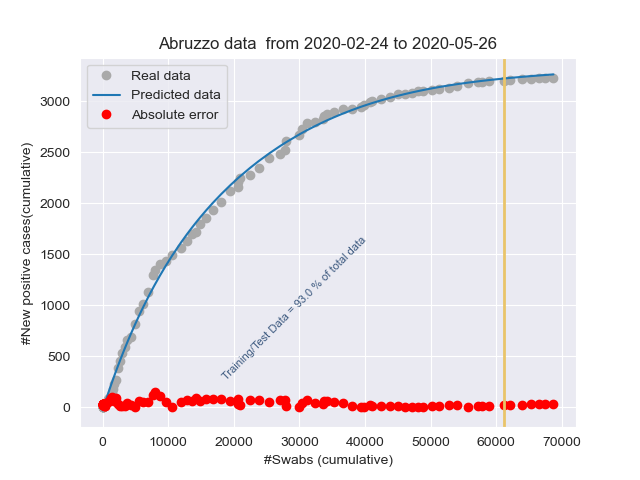
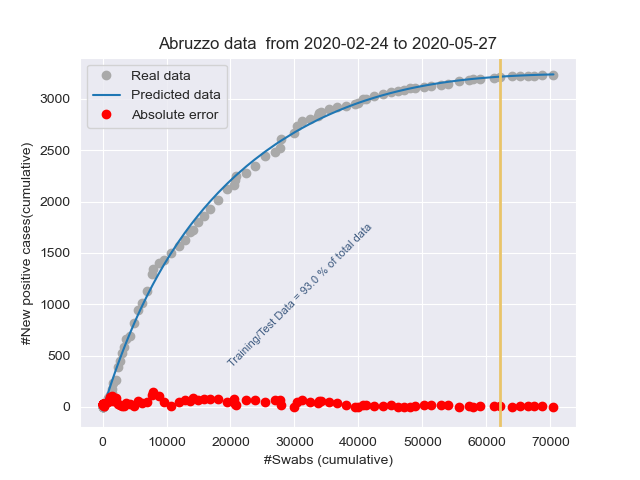
Add files via upload

diff --git a/stat_Italy.html b/stat_Italy.html
@@ -1,1 +1,1 @@
-<!DOCTYPE html><html lang="it"><head><title>Results</title><meta charset="utf-8"><meta name="viewport" content="width=device-width, initial-scale=1"><link rel="stylesheet" href="bootstrap.min.css"><script src="https://ajax.googleapis.com/ajax/libs/jquery/3.4.1/jquery.min.js"></script><script src="https://maxcdn.bootstrapcdn.com/bootstrap/3.4.1/js/bootstrap.min.js"></script></head><body><h3>Day: 2020-05-26</h3><p class="lead my-3">New positive cases: <b>397</b></p><p class="lead my-3">Number of swabs: <b>57674.0</b></p><p class="lead my-3">Number of people admitted to Intensive care: <b>521</b></p><p class="lead my-3">Number of people recovered: <b>2677.0</b></p><p class="lead my-3">Number of dead people: <b>78.0</b></p></body></html>
+<!DOCTYPE html><html lang="it"><head><title>Results</title><meta charset="utf-8"><meta name="viewport" content="width=device-width, initial-scale=1"><link rel="stylesheet" href="bootstrap.min.css"><script src="https://ajax.googleapis.com/ajax/libs/jquery/3.4.1/jquery.min.js"></script><script src="https://maxcdn.bootstrapcdn.com/bootstrap/3.4.1/js/bootstrap.min.js"></script></head><body><h3>Day: 2020-05-27</h3><p class="lead my-3">New positive cases: <b>584</b></p><p class="lead my-3">Number of swabs: <b>67324.0</b></p><p class="lead my-3">Number of people admitted to Intensive care: <b>505</b></p><p class="lead my-3">Number of people recovered: <b>2443.0</b></p><p class="lead my-3">Number of dead people: <b>117.0</b></p></body></html>

diff --git a/stat_Lombardia.html b/stat_Lombardia.html
@@ -1,1 +1,1 @@
-<!DOCTYPE html><html lang="it"><head><title>Results</title><meta charset="utf-8"><meta name="viewport" content="width=device-width, initial-scale=1"><link rel="stylesheet" href="bootstrap.min.css"><script src="https://ajax.googleapis.com/ajax/libs/jquery/3.4.1/jquery.min.js"></script><script src="https://maxcdn.bootstrapcdn.com/bootstrap/3.4.1/js/bootstrap.min.js"></script></head><body><h3>Day: 2020-05-26</h3><p class="lead my-3">New positive cases: <b>159</b></p><p class="lead my-3">Number of swabs: <b>9176.0</b></p><p class="lead my-3">Number of people admitted to Intensive care: <b>183</b></p><p class="lead my-3">Number of people recovered: <b>875.0</b></p><p class="lead my-3">Number of dead people: <b>22.0</b></p></body></html>
+<!DOCTYPE html><html lang="it"><head><title>Results</title><meta charset="utf-8"><meta name="viewport" content="width=device-width, initial-scale=1"><link rel="stylesheet" href="bootstrap.min.css"><script src="https://ajax.googleapis.com/ajax/libs/jquery/3.4.1/jquery.min.js"></script><script src="https://maxcdn.bootstrapcdn.com/bootstrap/3.4.1/js/bootstrap.min.js"></script></head><body><h3>Day: 2020-05-27</h3><p class="lead my-3">New positive cases: <b>384</b></p><p class="lead my-3">Number of swabs: <b>12503.0</b></p><p class="lead my-3">Number of people admitted to Intensive care: <b>175</b></p><p class="lead my-3">Number of people recovered: <b>766.0</b></p><p class="lead my-3">Number of dead people: <b>58.0</b></p></body></html>

diff --git a/stat_Piemonte.html b/stat_Piemonte.html
@@ -1,1 +1,1 @@
-<!DOCTYPE html><html lang="it"><head><title>Results</title><meta charset="utf-8"><meta name="viewport" content="width=device-width, initial-scale=1"><link rel="stylesheet" href="bootstrap.min.css"><script src="https://ajax.googleapis.com/ajax/libs/jquery/3.4.1/jquery.min.js"></script><script src="https://maxcdn.bootstrapcdn.com/bootstrap/3.4.1/js/bootstrap.min.js"></script></head><body><h3>Day: 2020-05-26</h3><p class="lead my-3">New positive cases: <b>86</b></p><p class="lead my-3">Number of swabs: <b>5455.0</b></p><p class="lead my-3">Number of people admitted to Intensive care: <b>70</b></p><p class="lead my-3">Number of people recovered: <b>627.0</b></p><p class="lead my-3">Number of dead people: <b>14.0</b></p></body></html>
+<!DOCTYPE html><html lang="it"><head><title>Results</title><meta charset="utf-8"><meta name="viewport" content="width=device-width, initial-scale=1"><link rel="stylesheet" href="bootstrap.min.css"><script src="https://ajax.googleapis.com/ajax/libs/jquery/3.4.1/jquery.min.js"></script><script src="https://maxcdn.bootstrapcdn.com/bootstrap/3.4.1/js/bootstrap.min.js"></script></head><body><h3>Day: 2020-05-27</h3><p class="lead my-3">New positive cases: <b>73</b></p><p class="lead my-3">Number of swabs: <b>5098.0</b></p><p class="lead my-3">Number of people admitted to Intensive care: <b>68</b></p><p class="lead my-3">Number of people recovered: <b>534.0</b></p><p class="lead my-3">Number of dead people: <b>16.0</b></p></body></html>

diff --git a/stat_Emilia-Romagna.html b/stat_Emilia-Romagna.html
@@ -1,1 +1,1 @@
-<!DOCTYPE html><html lang="it"><head><title>Results</title><meta charset="utf-8"><meta name="viewport" content="width=device-width, initial-scale=1"><link rel="stylesheet" href="bootstrap.min.css"><script src="https://ajax.googleapis.com/ajax/libs/jquery/3.4.1/jquery.min.js"></script><script src="https://maxcdn.bootstrapcdn.com/bootstrap/3.4.1/js/bootstrap.min.js"></script></head><body><h3>Day: 2020-05-26</h3><p class="lead my-3">New positive cases: <b>24</b></p><p class="lead my-3">Number of swabs: <b>3673.0</b></p><p class="lead my-3">Number of people admitted to Intensive care: <b>80</b></p><p class="lead my-3">Number of people recovered: <b>229.0</b></p><p class="lead my-3">Number of dead people: <b>8.0</b></p></body></html>
+<!DOCTYPE html><html lang="it"><head><title>Results</title><meta charset="utf-8"><meta name="viewport" content="width=device-width, initial-scale=1"><link rel="stylesheet" href="bootstrap.min.css"><script src="https://ajax.googleapis.com/ajax/libs/jquery/3.4.1/jquery.min.js"></script><script src="https://maxcdn.bootstrapcdn.com/bootstrap/3.4.1/js/bootstrap.min.js"></script></head><body><h3>Day: 2020-05-27</h3><p class="lead my-3">New positive cases: <b>16</b></p><p class="lead my-3">Number of swabs: <b>3714.0</b></p><p class="lead my-3">Number of people admitted to Intensive care: <b>78</b></p><p class="lead my-3">Number of people recovered: <b>157.0</b></p><p class="lead my-3">Number of dead people: <b>7.0</b></p></body></html>

diff --git a/stat_Liguria.html b/stat_Liguria.html
@@ -1,1 +1,1 @@
-<!DOCTYPE html><html lang="it"><head><title>Results</title><meta charset="utf-8"><meta name="viewport" content="width=device-width, initial-scale=1"><link rel="stylesheet" href="bootstrap.min.css"><script src="https://ajax.googleapis.com/ajax/libs/jquery/3.4.1/jquery.min.js"></script><script src="https://maxcdn.bootstrapcdn.com/bootstrap/3.4.1/js/bootstrap.min.js"></script></head><body><h3>Day: 2020-05-26</h3><p class="lead my-3">New positive cases: <b>53</b></p><p class="lead my-3">Number of swabs: <b>2206.0</b></p><p class="lead my-3">Number of people admitted to Intensive care: <b>19</b></p><p class="lead my-3">Number of people recovered: <b>165.0</b></p><p class="lead my-3">Number of dead people: <b>6.0</b></p></body></html>
+<!DOCTYPE html><html lang="it"><head><title>Results</title><meta charset="utf-8"><meta name="viewport" content="width=device-width, initial-scale=1"><link rel="stylesheet" href="bootstrap.min.css"><script src="https://ajax.googleapis.com/ajax/libs/jquery/3.4.1/jquery.min.js"></script><script src="https://maxcdn.bootstrapcdn.com/bootstrap/3.4.1/js/bootstrap.min.js"></script></head><body><h3>Day: 2020-05-27</h3><p class="lead my-3">New positive cases: <b>39</b></p><p class="lead my-3">Number of swabs: <b>2157.0</b></p><p class="lead my-3">Number of people admitted to Intensive care: <b>14</b></p><p class="lead my-3">Number of people recovered: <b>201.0</b></p><p class="lead my-3">Number of dead people: <b>7.0</b></p></body></html>

diff --git a/stat_Veneto.html b/stat_Veneto.html
@@ -1,1 +1,1 @@
-<!DOCTYPE html><html lang="it"><head><title>Results</title><meta charset="utf-8"><meta name="viewport" content="width=device-width, initial-scale=1"><link rel="stylesheet" href="bootstrap.min.css"><script src="https://ajax.googleapis.com/ajax/libs/jquery/3.4.1/jquery.min.js"></script><script src="https://maxcdn.bootstrapcdn.com/bootstrap/3.4.1/js/bootstrap.min.js"></script></head><body><h3>Day: 2020-05-26</h3><p class="lead my-3">New positive cases: <b>8</b></p><p class="lead my-3">Number of swabs: <b>12073.0</b></p><p class="lead my-3">Number of people admitted to Intensive care: <b>11</b></p><p class="lead my-3">Number of people recovered: <b>147.0</b></p><p class="lead my-3">Number of dead people: <b>8.0</b></p></body></html>
+<!DOCTYPE html><html lang="it"><head><title>Results</title><meta charset="utf-8"><meta name="viewport" content="width=device-width, initial-scale=1"><link rel="stylesheet" href="bootstrap.min.css"><script src="https://ajax.googleapis.com/ajax/libs/jquery/3.4.1/jquery.min.js"></script><script src="https://maxcdn.bootstrapcdn.com/bootstrap/3.4.1/js/bootstrap.min.js"></script></head><body><h3>Day: 2020-05-27</h3><p class="lead my-3">New positive cases: <b>8</b></p><p class="lead my-3">Number of swabs: <b>14439.0</b></p><p class="lead my-3">Number of people admitted to Intensive care: <b>9</b></p><p class="lead my-3">Number of people recovered: <b>143.0</b></p><p class="lead my-3">Number of dead people: <b>9.0</b></p></body></html>

diff --git a/stat_Lazio.html b/stat_Lazio.html
@@ -1,1 +1,1 @@
-<!DOCTYPE html><html lang="it"><head><title>Results</title><meta charset="utf-8"><meta name="viewport" content="width=device-width, initial-scale=1"><link rel="stylesheet" href="bootstrap.min.css"><script src="https://ajax.googleapis.com/ajax/libs/jquery/3.4.1/jquery.min.js"></script><script src="https://maxcdn.bootstrapcdn.com/bootstrap/3.4.1/js/bootstrap.min.js"></script></head><body><h3>Day: 2020-05-26</h3><p class="lead my-3">New positive cases: <b>18</b></p><p class="lead my-3">Number of swabs: <b>3127.0</b></p><p class="lead my-3">Number of people admitted to Intensive care: <b>59</b></p><p class="lead my-3">Number of people recovered: <b>29.0</b></p><p class="lead my-3">Number of dead people: <b>5.0</b></p></body></html>
+<!DOCTYPE html><html lang="it"><head><title>Results</title><meta charset="utf-8"><meta name="viewport" content="width=device-width, initial-scale=1"><link rel="stylesheet" href="bootstrap.min.css"><script src="https://ajax.googleapis.com/ajax/libs/jquery/3.4.1/jquery.min.js"></script><script src="https://maxcdn.bootstrapcdn.com/bootstrap/3.4.1/js/bootstrap.min.js"></script></head><body><h3>Day: 2020-05-27</h3><p class="lead my-3">New positive cases: <b>11</b></p><p class="lead my-3">Number of swabs: <b>3320.0</b></p><p class="lead my-3">Number of people admitted to Intensive care: <b>65</b></p><p class="lead my-3">Number of people recovered: <b>53.0</b></p><p class="lead my-3">Number of dead people: <b>8.0</b></p></body></html>

diff --git a/stat_Puglia.html b/stat_Puglia.html
@@ -1,1 +1,1 @@
-<!DOCTYPE html><html lang="it"><head><title>Results</title><meta charset="utf-8"><meta name="viewport" content="width=device-width, initial-scale=1"><link rel="stylesheet" href="bootstrap.min.css"><script src="https://ajax.googleapis.com/ajax/libs/jquery/3.4.1/jquery.min.js"></script><script src="https://maxcdn.bootstrapcdn.com/bootstrap/3.4.1/js/bootstrap.min.js"></script></head><body><h3>Day: 2020-05-26</h3><p class="lead my-3">New positive cases: <b>2</b></p><p class="lead my-3">Number of swabs: <b>2203.0</b></p><p class="lead my-3">Number of people admitted to Intensive care: <b>17</b></p><p class="lead my-3">Number of people recovered: <b>138.0</b></p><p class="lead my-3">Number of dead people: <b>3.0</b></p></body></html>
+<!DOCTYPE html><html lang="it"><head><title>Results</title><meta charset="utf-8"><meta name="viewport" content="width=device-width, initial-scale=1"><link rel="stylesheet" href="bootstrap.min.css"><script src="https://ajax.googleapis.com/ajax/libs/jquery/3.4.1/jquery.min.js"></script><script src="https://maxcdn.bootstrapcdn.com/bootstrap/3.4.1/js/bootstrap.min.js"></script></head><body><h3>Day: 2020-05-27</h3><p class="lead my-3">New positive cases: <b>10</b></p><p class="lead my-3">Number of swabs: <b>2626.0</b></p><p class="lead my-3">Number of people admitted to Intensive care: <b>17</b></p><p class="lead my-3">Number of people recovered: <b>35.0</b></p><p class="lead my-3">Number of dead people: <b>1.0</b></p></body></html>

diff --git a/stat_Toscana.html b/stat_Toscana.html
@@ -1,1 +1,1 @@
-<!DOCTYPE html><html lang="it"><head><title>Results</title><meta charset="utf-8"><meta name="viewport" content="width=device-width, initial-scale=1"><link rel="stylesheet" href="bootstrap.min.css"><script src="https://ajax.googleapis.com/ajax/libs/jquery/3.4.1/jquery.min.js"></script><script src="https://maxcdn.bootstrapcdn.com/bootstrap/3.4.1/js/bootstrap.min.js"></script></head><body><h3>Day: 2020-05-26</h3><p class="lead my-3">New positive cases: <b>3</b></p><p class="lead my-3">Number of swabs: <b>4523.0</b></p><p class="lead my-3">Number of people admitted to Intensive care: <b>34</b></p><p class="lead my-3">Number of people recovered: <b>111.0</b></p><p class="lead my-3">Number of dead people: <b>6.0</b></p></body></html>
+<!DOCTYPE html><html lang="it"><head><title>Results</title><meta charset="utf-8"><meta name="viewport" content="width=device-width, initial-scale=1"><link rel="stylesheet" href="bootstrap.min.css"><script src="https://ajax.googleapis.com/ajax/libs/jquery/3.4.1/jquery.min.js"></script><script src="https://maxcdn.bootstrapcdn.com/bootstrap/3.4.1/js/bootstrap.min.js"></script></head><body><h3>Day: 2020-05-27</h3><p class="lead my-3">New positive cases: <b>12</b></p><p class="lead my-3">Number of swabs: <b>3871.0</b></p><p class="lead my-3">Number of people admitted to Intensive care: <b>31</b></p><p class="lead my-3">Number of people recovered: <b>68.0</b></p><p class="lead my-3">Number of dead people: <b>6.0</b></p></body></html>

diff --git a/stat_Marche.html b/stat_Marche.html
@@ -1,1 +1,1 @@
-<!DOCTYPE html><html lang="it"><head><title>Results</title><meta charset="utf-8"><meta name="viewport" content="width=device-width, initial-scale=1"><link rel="stylesheet" href="bootstrap.min.css"><script src="https://ajax.googleapis.com/ajax/libs/jquery/3.4.1/jquery.min.js"></script><script src="https://maxcdn.bootstrapcdn.com/bootstrap/3.4.1/js/bootstrap.min.js"></script></head><body><h3>Day: 2020-05-26</h3><p class="lead my-3">New positive cases: <b>2</b></p><p class="lead my-3">Number of swabs: <b>1015.0</b></p><p class="lead my-3">Number of people admitted to Intensive care: <b>13</b></p><p class="lead my-3">Number of people recovered: <b>88.0</b></p><p class="lead my-3">Number of dead people: <b>1.0</b></p></body></html>
+<!DOCTYPE html><html lang="it"><head><title>Results</title><meta charset="utf-8"><meta name="viewport" content="width=device-width, initial-scale=1"><link rel="stylesheet" href="bootstrap.min.css"><script src="https://ajax.googleapis.com/ajax/libs/jquery/3.4.1/jquery.min.js"></script><script src="https://maxcdn.bootstrapcdn.com/bootstrap/3.4.1/js/bootstrap.min.js"></script></head><body><h3>Day: 2020-05-27</h3><p class="lead my-3">New positive cases: <b>0</b></p><p class="lead my-3">Number of swabs: <b>1250.0</b></p><p class="lead my-3">Number of people admitted to Intensive care: <b>13</b></p><p class="lead my-3">Number of people recovered: <b>125.0</b></p><p class="lead my-3">Number of dead people: <b>0.0</b></p></body></html>

diff --git a/stat_Sicilia.html b/stat_Sicilia.html
@@ -1,1 +1,1 @@
-<!DOCTYPE html><html lang="it"><head><title>Results</title><meta charset="utf-8"><meta name="viewport" content="width=device-width, initial-scale=1"><link rel="stylesheet" href="bootstrap.min.css"><script src="https://ajax.googleapis.com/ajax/libs/jquery/3.4.1/jquery.min.js"></script><script src="https://maxcdn.bootstrapcdn.com/bootstrap/3.4.1/js/bootstrap.min.js"></script></head><body><h3>Day: 2020-05-26</h3><p class="lead my-3">New positive cases: <b>3</b></p><p class="lead my-3">Number of swabs: <b>2421.0</b></p><p class="lead my-3">Number of people admitted to Intensive care: <b>10</b></p><p class="lead my-3">Number of people recovered: <b>5.0</b></p><p class="lead my-3">Number of dead people: <b>1.0</b></p></body></html>
+<!DOCTYPE html><html lang="it"><head><title>Results</title><meta charset="utf-8"><meta name="viewport" content="width=device-width, initial-scale=1"><link rel="stylesheet" href="bootstrap.min.css"><script src="https://ajax.googleapis.com/ajax/libs/jquery/3.4.1/jquery.min.js"></script><script src="https://maxcdn.bootstrapcdn.com/bootstrap/3.4.1/js/bootstrap.min.js"></script></head><body><h3>Day: 2020-05-27</h3><p class="lead my-3">New positive cases: <b>5</b></p><p class="lead my-3">Number of swabs: <b>2613.0</b></p><p class="lead my-3">Number of people admitted to Intensive care: <b>10</b></p><p class="lead my-3">Number of people recovered: <b>116.0</b></p><p class="lead my-3">Number of dead people: <b>1.0</b></p></body></html>

diff --git a/stat_Abruzzo.html b/stat_Abruzzo.html
@@ -1,1 +1,1 @@
-<!DOCTYPE html><html lang="it"><head><title>Results</title><meta charset="utf-8"><meta name="viewport" content="width=device-width, initial-scale=1"><link rel="stylesheet" href="bootstrap.min.css"><script src="https://ajax.googleapis.com/ajax/libs/jquery/3.4.1/jquery.min.js"></script><script src="https://maxcdn.bootstrapcdn.com/bootstrap/3.4.1/js/bootstrap.min.js"></script></head><body><h3>Day: 2020-05-26</h3><p class="lead my-3">New positive cases: <b>3</b></p><p class="lead my-3">Number of swabs: <b>1265.0</b></p><p class="lead my-3">Number of people admitted to Intensive care: <b>3</b></p><p class="lead my-3">Number of people recovered: <b>140.0</b></p><p class="lead my-3">Number of dead people: <b>0.0</b></p></body></html>
+<!DOCTYPE html><html lang="it"><head><title>Results</title><meta charset="utf-8"><meta name="viewport" content="width=device-width, initial-scale=1"><link rel="stylesheet" href="bootstrap.min.css"><script src="https://ajax.googleapis.com/ajax/libs/jquery/3.4.1/jquery.min.js"></script><script src="https://maxcdn.bootstrapcdn.com/bootstrap/3.4.1/js/bootstrap.min.js"></script></head><body><h3>Day: 2020-05-27</h3><p class="lead my-3">New positive cases: <b>5</b></p><p class="lead my-3">Number of swabs: <b>1740.0</b></p><p class="lead my-3">Number of people admitted to Intensive care: <b>3</b></p><p class="lead my-3">Number of people recovered: <b>48.0</b></p><p class="lead my-3">Number of dead people: <b>0.0</b></p></body></html>
